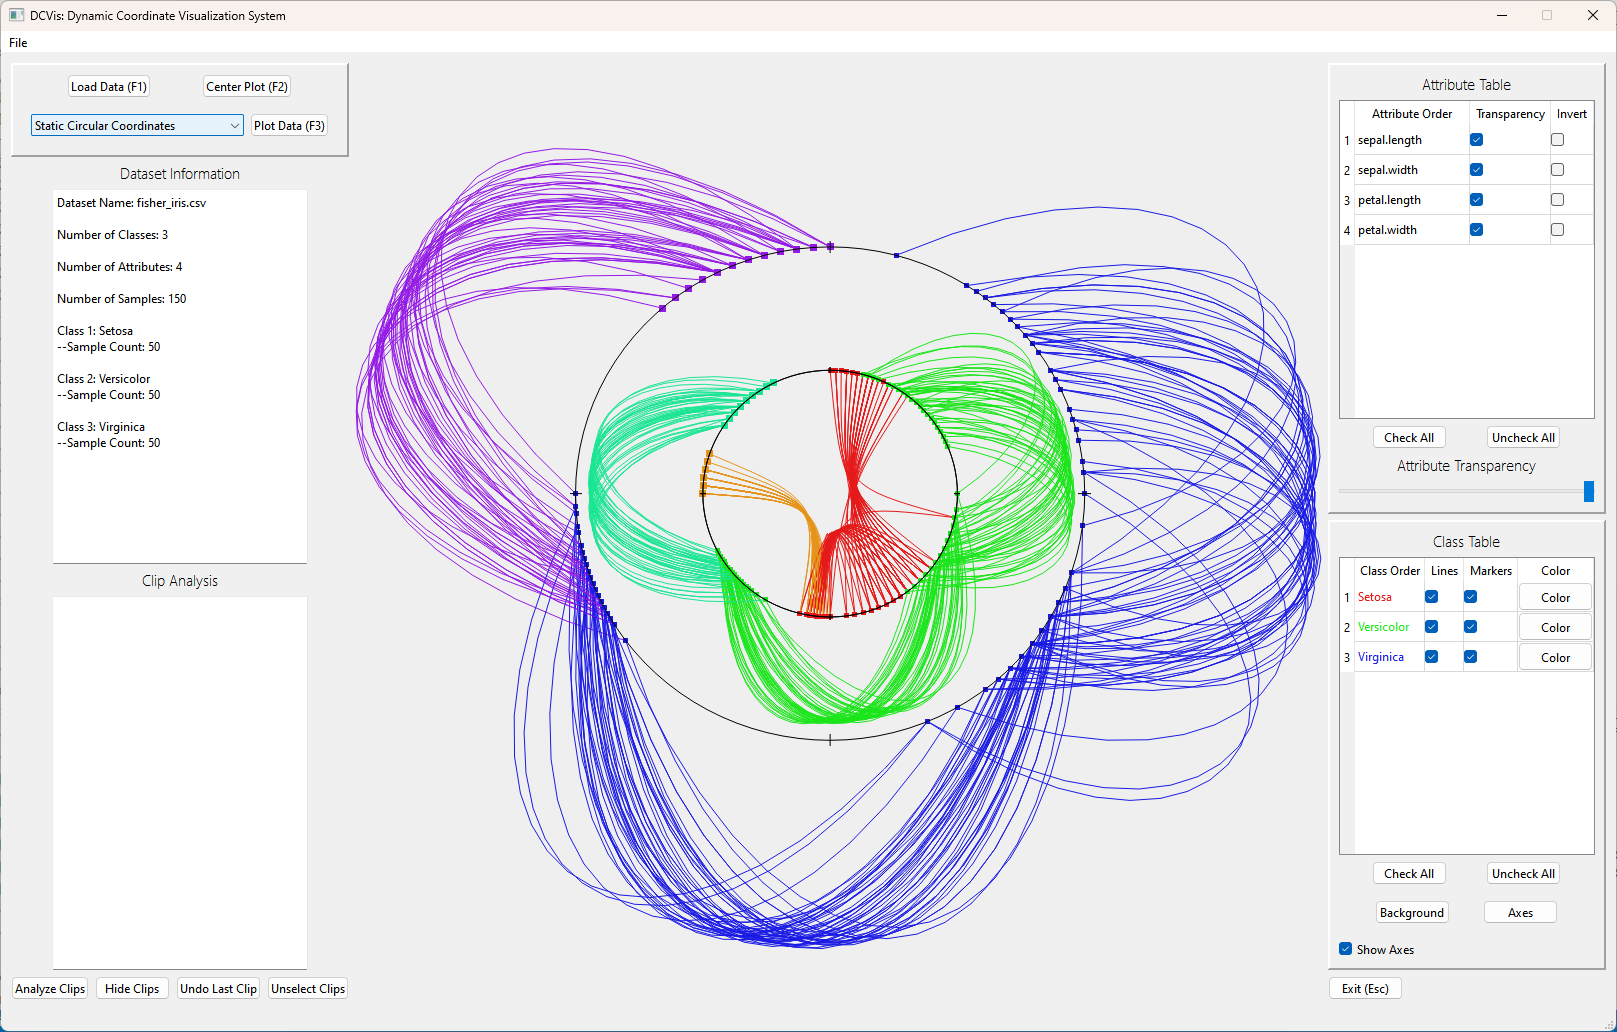
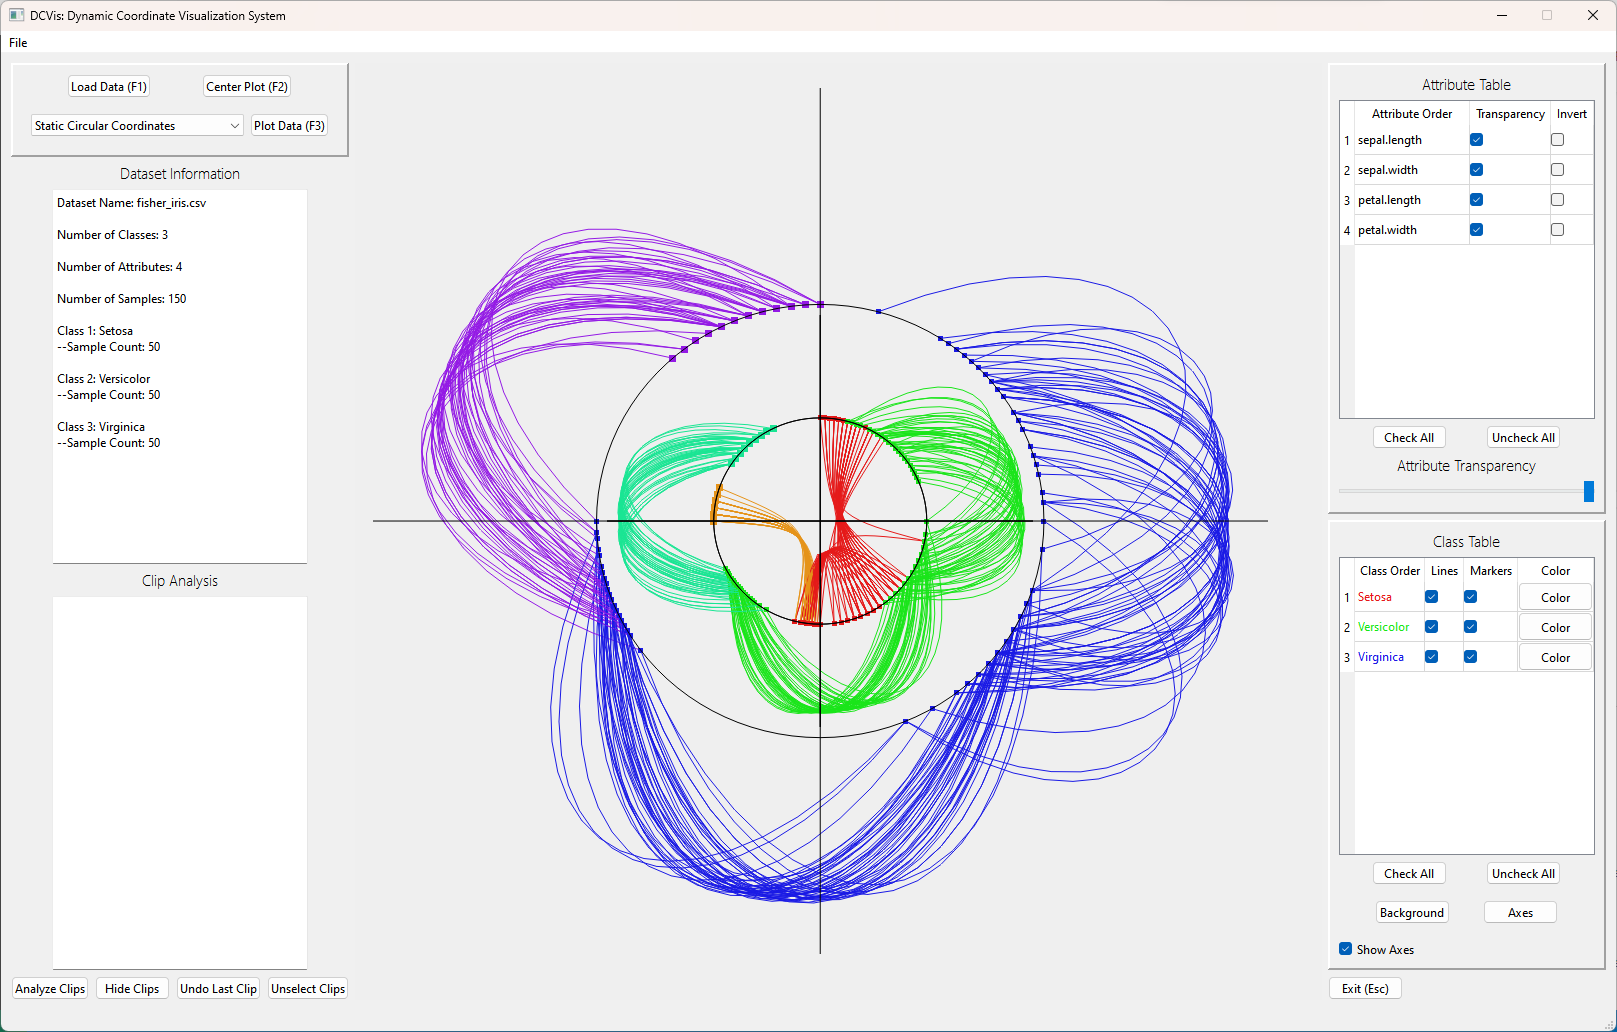
make growth of mutli cc axes linear

Changed region(s): [[0.2165, 0.155, 0.8349, 0.9302], [0.0, 0.9922, 0.0309, 1.0]]

diff --git a/PLOT.py b/PLOT.py
@@ -320,8 +320,8 @@ def draw_axes(dataset, axis_vao, color):
                 radius_factor = 1
             else:
                 # Subsequent classes each get their own axis, scaling geometrically
-                scale_factor = 2  # Adjust this factor to control the rate of radius increase
-                radius_factor = scale_factor ** (class_index-1)
+                scale_factor = 2.1  # Adjust this factor to control the rate of radius increase
+                radius_factor = scale_factor * (class_index-1)
 
             radius = base_radius * radius_factor
 

diff --git a/SCC.py b/SCC.py
@@ -10,8 +10,8 @@ def compute_coordinates(data, df, class_index):
         radius_factor = 1
     else:
         # Subsequent classes each get their own axis, scaling geometrically
-        scale_factor = 2  # Adjust this factor to control the rate of radius increase
-        radius_factor = scale_factor ** (class_index-1)
+        scale_factor = 2.1  # Adjust this factor to control the rate of radius increase
+        radius_factor = scale_factor * (class_index-1)
 
     radius = base_radius * radius_factor
     section_array = np.linspace(0, 1, data.attribute_count)

diff --git a/DCC.py b/DCC.py
@@ -35,8 +35,8 @@ class DCC:
                 radius_factor = 1
             else:
                 # Subsequent classes each get their own axis, scaling geometrically
-                scale_factor = 2  # Adjust this factor to control the rate of radius increase
-                radius_factor = scale_factor ** (class_index-1)
+                scale_factor = 2.1  # Adjust this factor to control the rate of radius increase
+                radius_factor = scale_factor * (class_index-1)
 
             radius = base_radius * radius_factor
 
